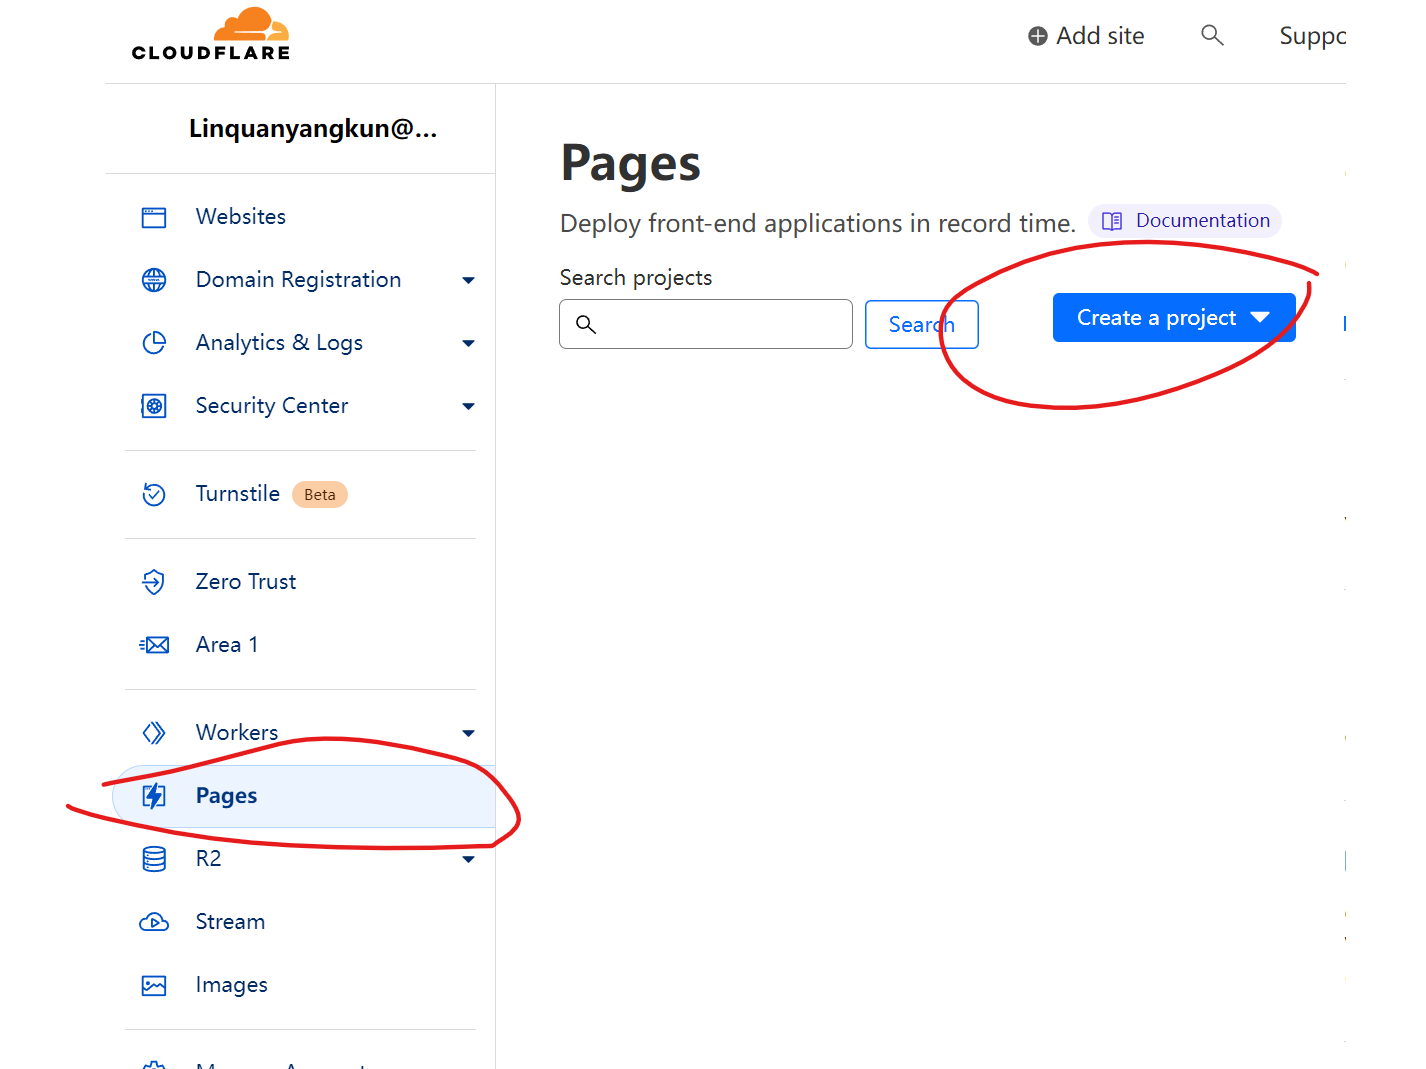
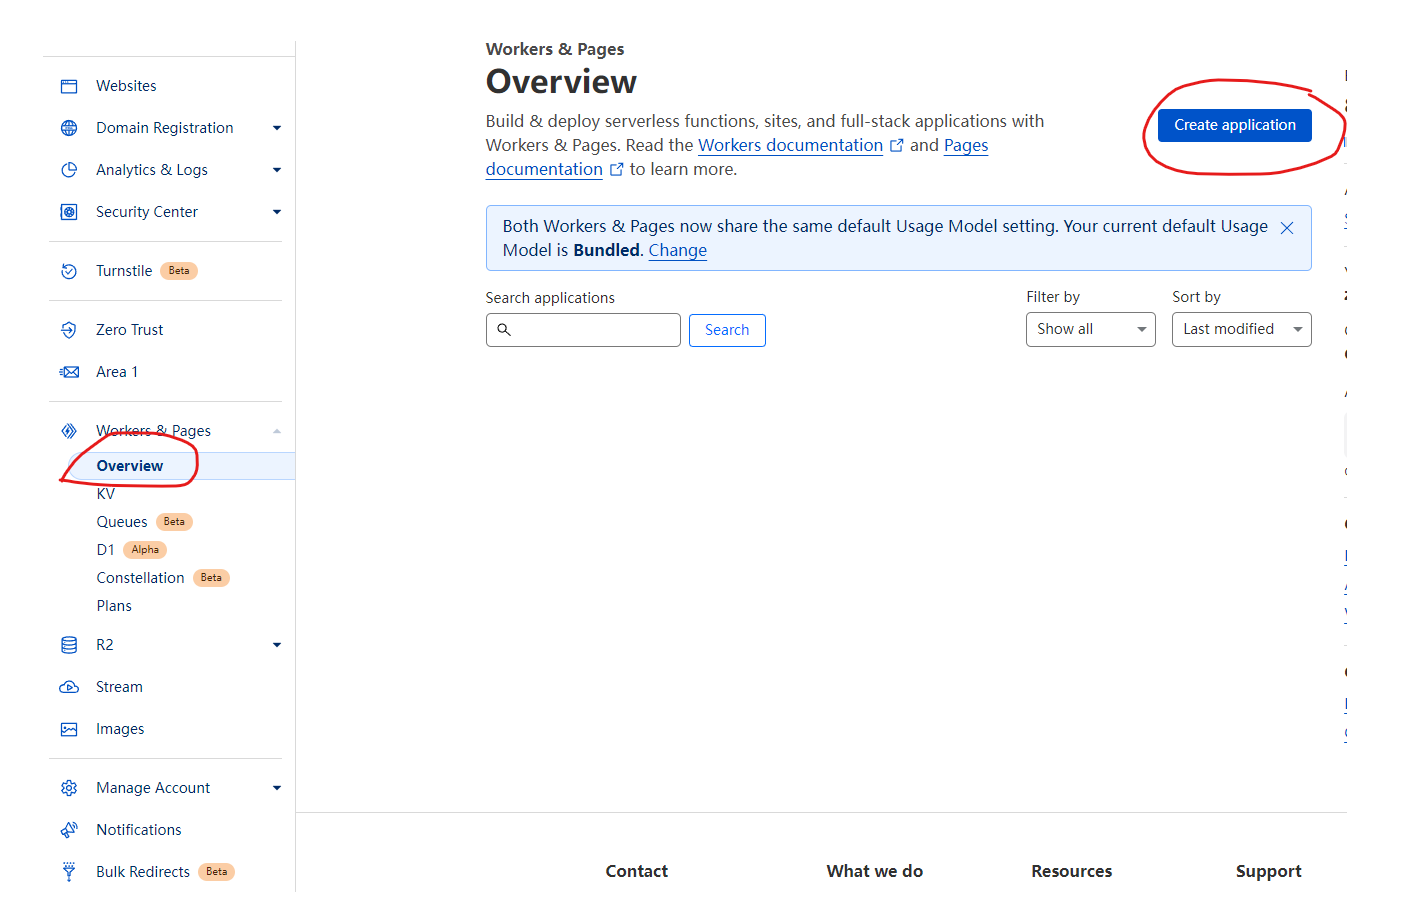
add docs

diff --git a/docs/guide/cf-worker.md b/docs/guide/cf-worker.md
@@ -15,7 +15,7 @@ https://github.com/zizifn/edgetunnel
 
 ![fork](../public/fork.jpg)
 
-请定期同步 fork，具体方式请参考 [Github 文档](https://docs.github.com/en/pull-requests/collaborating-with-pull-requests/working-with-forks/syncing-a-fork)。
+请**一定要定期同步** fork，具体方式请参考 [Github 文档](https://docs.github.com/en/pull-requests/collaborating-with-pull-requests/working-with-forks/syncing-a-fork)。
 
 ## 注册 Cloudflare 账户
 
@@ -26,8 +26,53 @@ https://www.cloudflare.com/
 ## 创建 Cloudflare Pages
 
 ![cf-page](../public/cf-pages.png)
+![cf-page2](../public/cf-pages2.png)
 
-## TOS
+### 连接 GITHUB 账户 和 repo
+
+连接 GITHUB 账户， 并且要选择你 fork 的 repo。
+
+![github-edgetunnel](../public/github-edgetunnel.png)
+
+#### 填写 Pages build 信息
+
+| 选项            | 值                      |
+| --------------- | ----------------------- |
+| Build Command   | npm run cf-page-vless   |
+| Build Directory | dist/apps/cf-page-vless |
+
+| 环境变量     | 值                                   |
+| ------------ | ------------------------------------ |
+| UUID         | b7625108-80fb-4544-a1f2-aa40c931aa52 |
+| NODE_VERSION | 18                                   |
+
+> 请自己生成一个 UUID
+
+![build-config](../public/edgetunnel-build-config.png)
+
+### 部署成功访问 Pages URL
+
+> 请在页面账户和密码，输入你的 UUID
+
+访问 Pages 项目地址，并且点击分享 Vless，扫码导入配置。
+
+![edgetunnel-overvide](../public/edgetunnel-overview.png)
+
+## 修改 Cloudflare Pages 的设置
+
+如果忘记 UUID 或者想修改配置，可以在 Pages 的设置里面修改。
+
+### 自定义域名
+
+![custom_domain](../public/custom_domain.png)
+
+### 使用 Cloudflare Pages 最新 build V2 系统
+
+![build-v](../public/pages-buildV2.png)
+
+## Cloudflare TOS
+
+按照我对 Cloudflare TOS 理解。Cloudflare Pages 是可以运行代理软件的。
 
 https://www.cloudflare.com/supplemental-terms/
 
